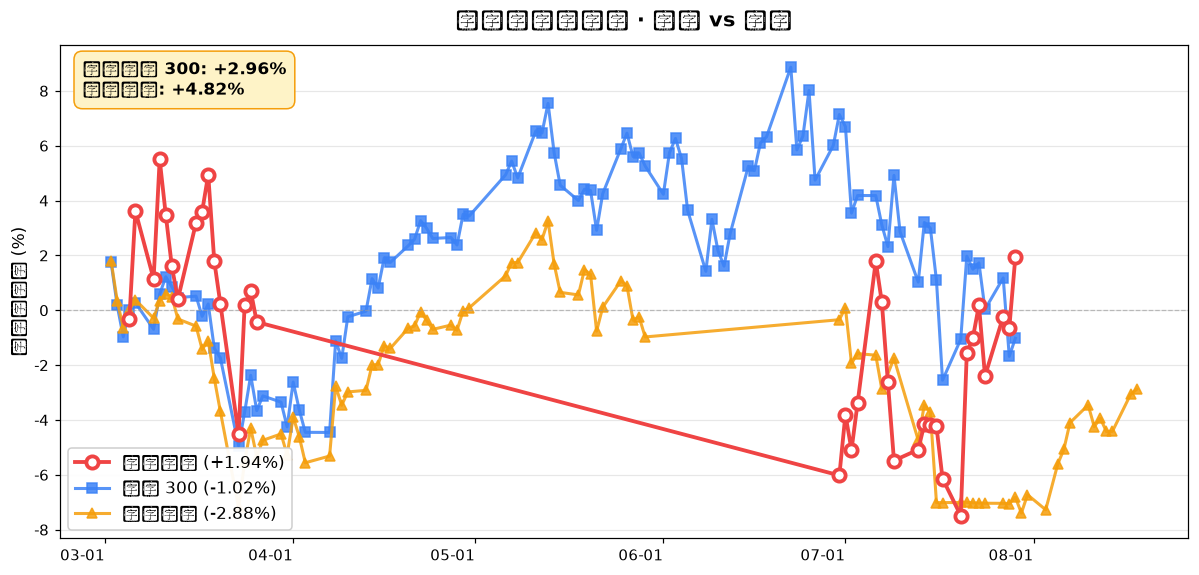
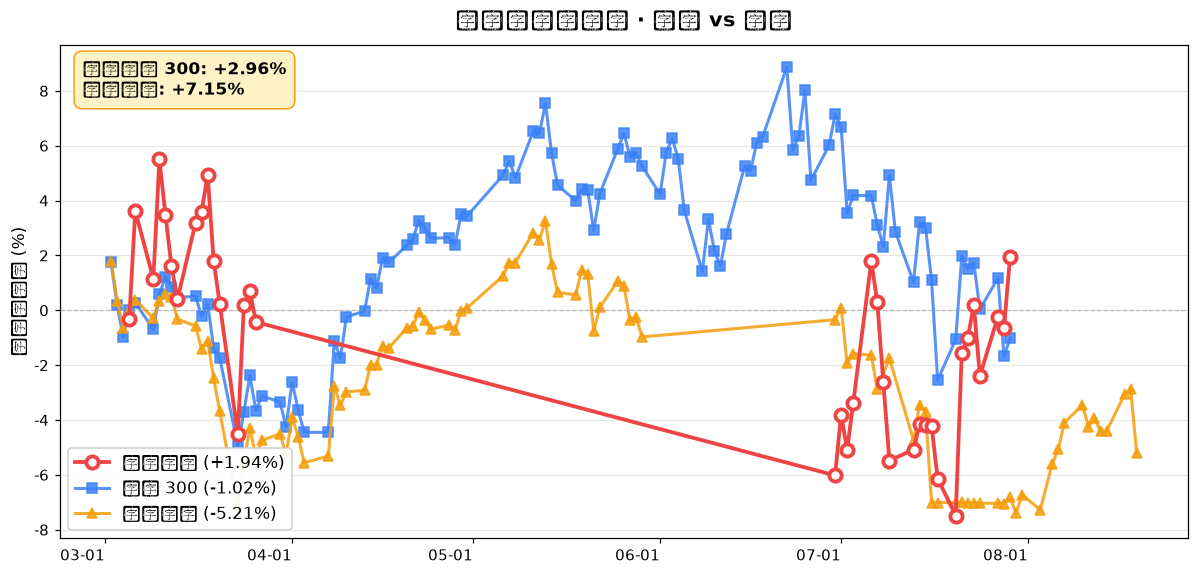
deploy dashboard 2026-08-19

diff --git a/dashboard/index.html b/dashboard/index.html
@@ -111,7 +111,7 @@
 
 <div class="header">
   <h1 data-i18n="title">📊 持仓 Dashboard</h1>
-  <div class="date">2026-08-19 · 更新于 08:21</div>
+  <div class="date">2026-08-19 · 更新于 08:39</div>
 </div>
 
 <div class="hero-pnl" style="padding:16px">
@@ -157,7 +157,7 @@
 
 <div class="excess">
         <b>🔴 跑赢 沪深 300</b>: +2.96%<br>
-        <b>🔴 跑赢 上证指数</b>: +4.82%
+        <b>🔴 跑赢 上证指数</b>: +7.15%
     </div>
 
 <div class="section">
@@ -181,18 +181,18 @@
 <div class="section"><h2>🚪 已清仓 (2 只)</h2><div style="font-size:11px;color:#9ca3af;margin-bottom:8px">
         清仓释放本金 <b>17676.50</b> 元 · 累计实现 <b style="color:#ef4444">+508.60</b> 元
     </div><div class="holding-card loss" style="border-left-color:#6b7280">
-          <div class="name">513780 <span style="color:#9ca3af;font-weight:normal">(513780) 已清仓</span></div>
-          <div class="row"><span class="k">清仓日</span><span>-</span></div>
-          <div class="row"><span class="k">成本</span><span>14927.90</span></div>
-          <div class="row"><span class="k">收回</span><span>15404.50</span></div>
-          <div class="row"><span class="k">实现盈亏</span><span class="red">+461.60 (+3.09%)</span></div>
-        </div>
-<div class="holding-card loss" style="border-left-color:#6b7280">
           <div class="name">600755 <span style="color:#9ca3af;font-weight:normal">(600755) 已清仓</span></div>
           <div class="row"><span class="k">清仓日</span><span>-</span></div>
           <div class="row"><span class="k">成本</span><span>2220.00</span></div>
           <div class="row"><span class="k">收回</span><span>2272.00</span></div>
           <div class="row"><span class="k">实现盈亏</span><span class="red">+47.00 (+2.12%)</span></div>
+        </div>
+<div class="holding-card loss" style="border-left-color:#6b7280">
+          <div class="name">513780 <span style="color:#9ca3af;font-weight:normal">(513780) 已清仓</span></div>
+          <div class="row"><span class="k">清仓日</span><span>-</span></div>
+          <div class="row"><span class="k">成本</span><span>14927.90</span></div>
+          <div class="row"><span class="k">收回</span><span>15404.50</span></div>
+          <div class="row"><span class="k">实现盈亏</span><span class="red">+461.60 (+3.09%)</span></div>
         </div></div>
 
 <div class="section">
